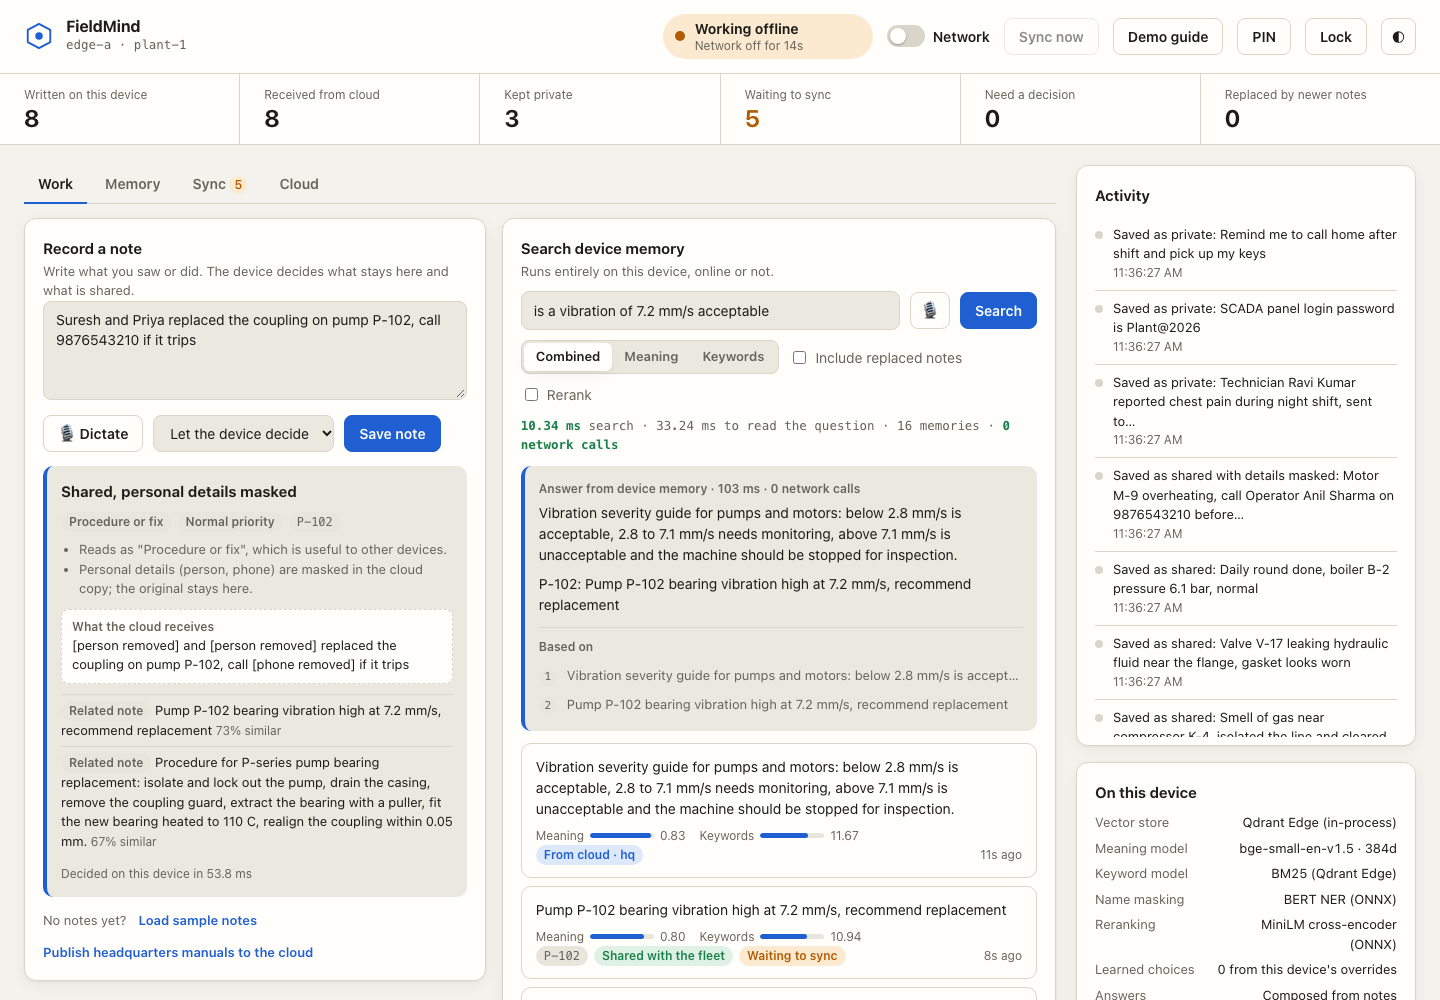
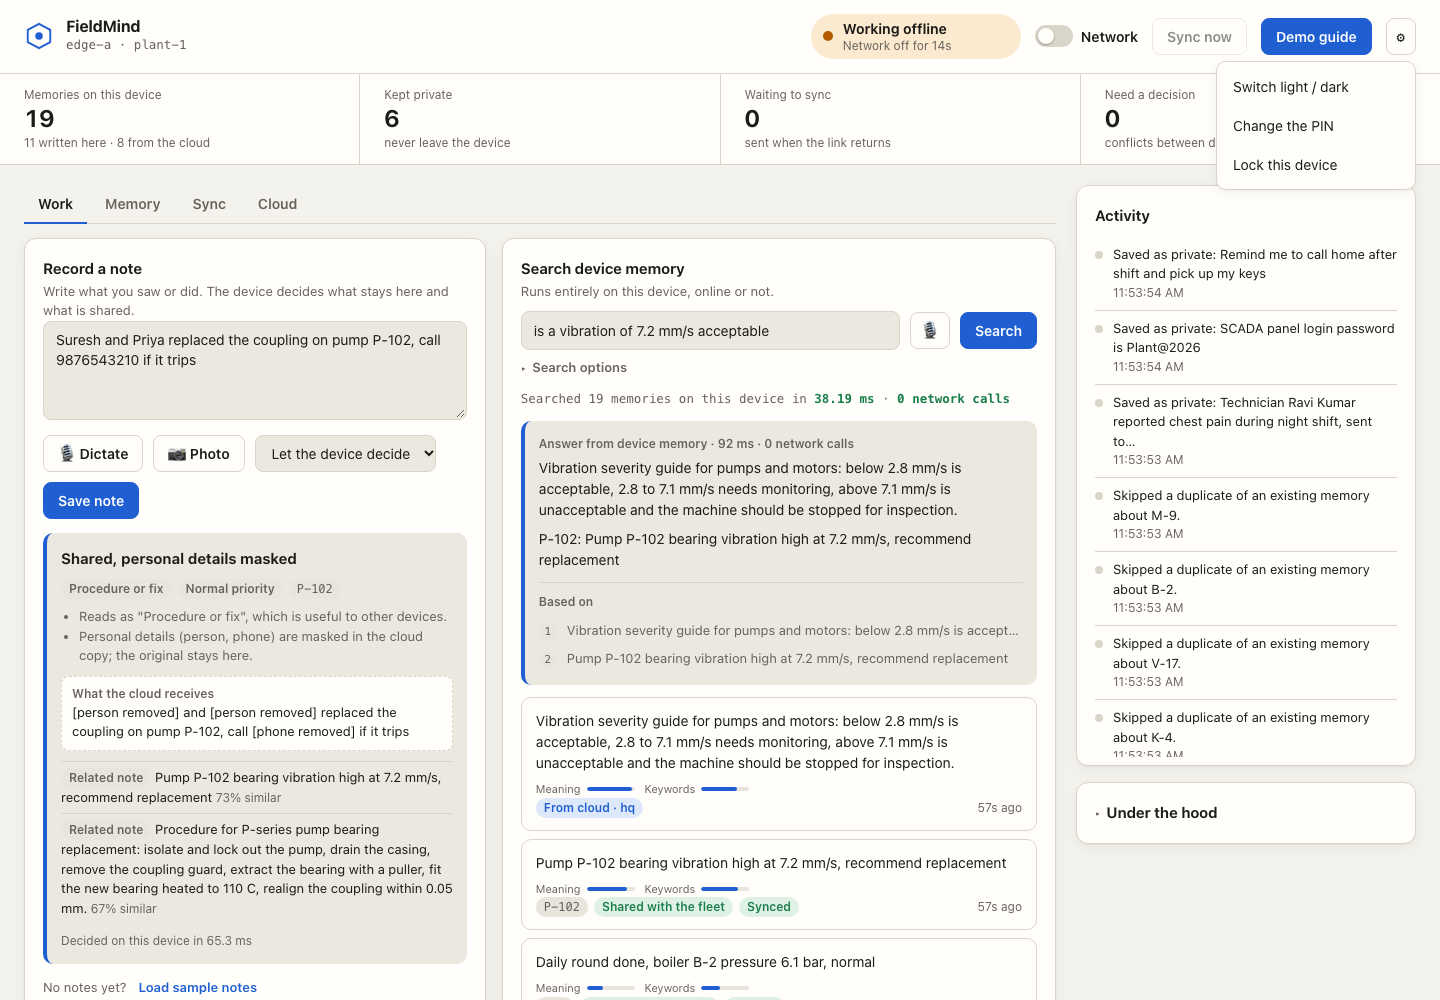
A simpler dashboard; dictation falls back when on-device recognition is unavailable
Four stat tiles with plain-language sublines replace six; theme, PIN and lock
move into a settings menu so Demo guide stands out; search options, sync runs
and the model details fold away; result bars show the signals without raw
numbers; an empty device shows a Start-here card with the three first actions.
Dictation asks for on-device recognition first and, when the browser answers
language-not-supported, retries with its ordinary recogniser instead of giving
up. Screenshots and the walkthrough GIF are regenerated.

diff --git a/fieldmind/web/app.js b/fieldmind/web/app.js
@@ -232,21 +232,21 @@ function renderStatus(s) {
 
   const waiting = outbox.pending || 0;
   const stats = [
-    ["Written on this device", memory.local, ""],
-    ["Received from cloud", memory.replica, ""],
-    ["Kept private", memory.private, ""],
-    ["Waiting to sync", waiting, waiting ? "attention" : ""],
-    ["Need a decision", s.open_conflicts, s.open_conflicts ? "alert" : ""],
-    ["Replaced by newer notes", memory.superseded, ""],
+    ["Memories on this device", memory.local + memory.replica, "", `${memory.local} written here · ${memory.replica} from the cloud`],
+    ["Kept private", memory.private, "", "never leave the device"],
+    ["Waiting to sync", waiting, waiting ? "attention" : "", link.online ? "sending now" : "sent when the link returns"],
+    ["Need a decision", s.open_conflicts, s.open_conflicts ? "alert" : "", "conflicts between devices"],
   ];
-  $("stats").innerHTML = stats.map(([label, value, cls]) => `
-    <div class="stat ${cls}"><div class="stat-label">${label}</div><div class="stat-value">${value}</div></div>`).join("");
+  $("stats").innerHTML = stats.map(([label, value, cls, sub]) => `
+    <div class="stat ${cls}"><div class="stat-label">${label}</div><div class="stat-value">${value}</div><div class="stat-sub">${esc(sub)}</div></div>`).join("");
+  $("start-here").hidden = memory.local + memory.replica > 0;
+  document.querySelector(".samples").hidden = !$("start-here").hidden;
 
   const attention = waiting + s.open_conflicts;
   $("tab-sync-count").textContent = attention ? String(attention) : "";
 
   const disk = s.shards.local.disk_bytes + s.shards.replica.disk_bytes;
-  $("engine").innerHTML = `<h2>On this device</h2>
+  $("engine").innerHTML = `<p class="hint">Everything below runs inside this device's process. Nothing here needs a network.</p>
     <dl class="kv">
       <dt>Vector store</dt><dd>${esc(s.engine.vector_store)}</dd>
       <dt>Meaning model</dt><dd>${esc(s.engine.dense_model.split("/").pop())} · ${s.engine.dimensions}d</dd>
@@ -437,22 +437,13 @@ async function runSearch(withAnswer = true) {
   const t = found.timing_ms;
   const total = found.searched.local + found.searched.replica;
   $("search-meta").innerHTML =
-    `<b>${t.search} ms</b> search · ${t.embed} ms to read the question${found.reranked ? ` · ${t.rerank} ms to rerank` : ""} · ${total} memories · <b>${found.network_calls} network calls</b>`;
+    `Searched ${total} memories on this device in <b>${t.total} ms</b> · <b>${found.network_calls} network calls</b>${found.reranked ? " · question and notes read together" : ""}`;
 
+  const SIGNAL = { semantic: "Meaning", keyword: "Keywords", rerank: "Read together", image: "Photo" };
   $("results").innerHTML = found.results.length ? found.results.map((r) => {
-    const parts = [];
-    if (r.matched.semantic !== undefined) {
-      parts.push(`<span class="signal">Meaning <span class="bar"><span style="width:${Math.round(r.strength.semantic * 100)}%"></span></span> ${r.matched.semantic.toFixed(2)}</span>`);
-    }
-    if (r.matched.keyword !== undefined) {
-      parts.push(`<span class="signal">Keywords <span class="bar"><span style="width:${Math.round(r.strength.keyword * 100)}%"></span></span> ${r.matched.keyword.toFixed(2)}</span>`);
-    }
-    if (r.matched.rerank !== undefined) {
-      parts.push(`<span class="signal">Read together <span class="bar"><span style="width:${Math.round(r.strength.rerank * 100)}%"></span></span> ${r.matched.rerank.toFixed(2)}</span>`);
-    }
-    if (r.matched.image !== undefined) {
-      parts.push(`<span class="signal">Photo <span class="bar"><span style="width:${Math.round(r.strength.image * 100)}%"></span></span> ${r.matched.image.toFixed(2)}</span>`);
-    }
+    const parts = Object.keys(SIGNAL).filter((k) => r.strength[k] !== undefined).map((k) =>
+      `<span class="signal" title="${SIGNAL[k]} match: ${r.matched[k].toFixed(2)}">${SIGNAL[k]}
+        <span class="bar"><span style="width:${Math.round(r.strength[k] * 100)}%"></span></span></span>`);
     return memoryItem(r, `<div class="signals">${parts.join("")}</div>`);
   }).join("") : `<div class="empty-state">Nothing in device memory matches that.</div>`;
 }
@@ -812,6 +803,8 @@ document.addEventListener("click", (event) => {
   if (open) { state.guideOpen = false; return openMemory(open.dataset.open); }
   const guided = event.target.closest("[data-guide]");
   if (guided) return $(guided.dataset.guide).click();
+  const focus = event.target.closest("[data-focus]");
+  if (focus) return $(focus.dataset.focus).focus();
   if (event.target.closest("[data-close]") || event.target === $("drawer")) return closeDrawer();
 
   const combine = event.target.closest("[data-combine]");
@@ -860,14 +853,25 @@ $("seed-cloud").addEventListener("click", async (event) => {
 });
 
 $("guide").addEventListener("click", openGuide);
-$("change-pin").addEventListener("click", openPinChange);
+$("change-pin").addEventListener("click", () => { closeMenu(); openPinChange(); });
+
+function closeMenu() { $("settings-menu").hidden = true; $("settings").setAttribute("aria-expanded", "false"); }
+$("settings").addEventListener("click", (event) => {
+  event.stopPropagation();
+  const open = $("settings-menu").hidden;
+  $("settings-menu").hidden = !open;
+  $("settings").setAttribute("aria-expanded", String(open));
+});
+document.addEventListener("click", (event) => { if (!event.target.closest(".menu-wrap")) closeMenu(); });
 $("lock-form").addEventListener("submit", submitLock);
 $("lock-now").addEventListener("click", async () => {
+  closeMenu();
   await api("/api/auth/logout", { method: "POST" }).catch(() => null);
   showLock();
 });
 
 $("theme").addEventListener("click", () => {
+  closeMenu();
   const root = document.documentElement;
   const dark = root.dataset.theme
     ? root.dataset.theme === "dark"
@@ -893,13 +897,17 @@ function stopDictation() {
   if (listening) { try { listening.recognition.stop(); } catch (error) { /* already stopped */ } }
 }
 
-function startDictation(button) {
+function startDictation(button, onDevice = true) {
   const target = $(button.dataset.dictate);
   const recognition = new Recognition();
   recognition.lang = navigator.language || "en-IN";
   recognition.interimResults = true;
   recognition.continuous = false;
-  try { recognition.processLocally = true; } catch (error) { /* not offered by this browser */ }
+  // Ask for on-device recognition first. Browsers only have it for some
+  // languages, and answer "language-not-supported" otherwise; then the ordinary
+  // recogniser (the browser vendor's service) is used instead.
+  if (onDevice) { try { recognition.processLocally = true; } catch (error) { onDevice = false; } }
+  let retry = false;
   const before = target.value ? `${target.value.trim()} ` : "";
   recognition.onresult = (event) => {
     const heard = Array.from(event.results).map((r) => r[0].transcript).join(" ").trim();
@@ -907,18 +915,21 @@ function startDictation(button) {
     target.dispatchEvent(new Event("input"));
   };
   recognition.onerror = (event) => {
+    if ((event.error === "language-not-supported" || event.error === "service-not-allowed") && onDevice) { retry = true; return; }
     if (event.error === "not-allowed") toast("Microphone access was refused.");
     else if (event.error === "network") toast("This browser's speech service needs internet. Type the note instead.");
+    else if (event.error === "language-not-supported") toast(`This browser cannot recognise ${recognition.lang}. Type the note instead.`);
     else if (event.error !== "aborted" && event.error !== "no-speech") toast(`Dictation stopped: ${event.error}`);
   };
   recognition.onend = () => {
+    if (retry) { startDictation(button, false); return; }
     button.classList.remove("listening");
     button.textContent = button.dataset.idle;
     listening = null;
     if (button.dataset.submit && target.value.trim()) $(button.dataset.submit).requestSubmit();
     else target.focus();
   };
-  button.dataset.idle = button.textContent;
+  if (!button.dataset.idle) button.dataset.idle = button.textContent;
   button.textContent = button.classList.contains("icon") ? "■" : "■ Listening…";
   button.classList.add("listening");
   listening = { recognition, button };

diff --git a/fieldmind/web/index.html b/fieldmind/web/index.html
@@ -37,10 +37,15 @@
       <span class="switch-label">Network</span>
     </label>
     <button class="btn" id="sync-now">Sync now</button>
-    <button class="btn ghost" id="guide" title="A guided tour of what to try">Demo guide</button>
-    <button class="btn ghost" id="change-pin" title="Change the device PIN">PIN</button>
-    <button class="btn ghost" id="lock-now" title="Lock this device">Lock</button>
-    <button class="btn ghost icon" id="theme" title="Switch light and dark" aria-label="Switch light and dark">◐</button>
+    <button class="btn primary" id="guide" title="A guided tour of what to try">Demo guide</button>
+    <div class="menu-wrap">
+      <button class="btn ghost icon" id="settings" title="Device settings" aria-label="Device settings" aria-haspopup="true" aria-expanded="false">⚙</button>
+      <div class="menu" id="settings-menu" hidden>
+        <button class="menu-item" id="theme">Switch light / dark</button>
+        <button class="menu-item" id="change-pin">Change the PIN</button>
+        <button class="menu-item" id="lock-now">Lock this device</button>
+      </div>
+    </div>
   </div>
 </header>
 
@@ -56,6 +61,15 @@
     </nav>
 
     <section class="panel active" id="panel-work">
+      <div class="card start" id="start-here" hidden>
+        <h2>Start here</h2>
+        <p class="hint">This device is empty. Three ways to begin:</p>
+        <div class="start-steps">
+          <button class="start-step" data-guide="seed-cloud"><b>1</b><span>Publish headquarters manuals to the cloud</span><small>The device pulls them in so it can answer questions offline.</small></button>
+          <button class="start-step" data-guide="seed"><b>2</b><span>Load sample field notes</span><small>Watch each one be kept private, shared, or shared with names masked.</small></button>
+          <button class="start-step" data-focus="note"><b>3</b><span>Write or dictate your own note</span><small>The sharing decision appears as you type.</small></button>
+        </div>
+      </div>
       <div class="work">
         <div class="card">
           <h2>Record a note</h2>
@@ -92,15 +106,18 @@
               title="Ask by voice. Uses the browser's speech service." aria-label="Ask by voice">🎙</button>
             <button class="btn primary" type="submit">Search</button>
           </form>
-          <div class="row wrap">
-            <div class="segmented" id="mode">
-              <button type="button" data-mode="hybrid" class="active">Combined</button>
-              <button type="button" data-mode="semantic">Meaning</button>
-              <button type="button" data-mode="keyword">Keywords</button>
+          <details class="options">
+            <summary>Search options</summary>
+            <div class="row wrap">
+              <div class="segmented" id="mode">
+                <button type="button" data-mode="hybrid" class="active">Combined</button>
+                <button type="button" data-mode="semantic">Meaning</button>
+                <button type="button" data-mode="keyword">Keywords</button>
+              </div>
+              <label class="check"><input type="checkbox" id="include-old"> Include replaced notes</label>
+              <label class="check" id="rerank-label" title="A small cross-encoder reads the question with each candidate"><input type="checkbox" id="rerank"> Read question and notes together (slower, more precise)</label>
             </div>
-            <label class="check"><input type="checkbox" id="include-old"> Include replaced notes</label>
-            <label class="check" id="rerank-label" title="A small cross-encoder reads the question with each candidate"><input type="checkbox" id="rerank"> Rerank</label>
-          </div>
+          </details>
           <div id="search-meta" class="meta-line"></div>
           <div id="answer"></div>
           <div id="results" class="list"></div>
@@ -139,10 +156,10 @@
         <p class="hint">Two devices changed the same note in different ways. Nothing was overwritten.</p>
         <div id="conflicts" class="list"></div>
       </div>
-      <div class="card">
-        <h2>Recent sync runs</h2>
+      <details class="card under">
+        <summary><h2>Recent sync runs</h2></summary>
         <div id="runs"></div>
-      </div>
+      </details>
     </section>
 
     <section class="panel" id="panel-cloud">
@@ -164,7 +181,10 @@
       <h2>Activity</h2>
       <div id="events" class="events"></div>
     </div>
-    <div class="card engine" id="engine"></div>
+    <details class="card under" id="engine-card">
+      <summary><h2>Under the hood</h2></summary>
+      <div id="engine"></div>
+    </details>
   </aside>
 </main>
 

diff --git a/fieldmind/web/styles.css b/fieldmind/web/styles.css
@@ -422,3 +422,30 @@ td.num, th.num { text-align: right; }
 .thumbs { display: flex; gap: 8px; margin: 8px 0; flex-wrap: wrap; }
 .thumbs img { height: 72px; width: auto; border-radius: 8px; object-fit: cover; border: 1px solid var(--line); }
 .thumbs.large img { height: auto; max-height: 320px; max-width: 100%; }
+
+
+/* Simpler surface: four tiles, a settings menu, collapsed details */
+.stats { grid-template-columns: repeat(4, 1fr); }
+.stat-sub { color: var(--muted); font-size: 12px; white-space: nowrap; overflow: hidden; text-overflow: ellipsis; margin-top: 2px; }
+.menu-wrap { position: relative; }
+.menu { position: absolute; right: 0; top: calc(100% + 6px); min-width: 200px; background: var(--surface); border: 1px solid var(--line); border-radius: 10px; box-shadow: var(--shadow); padding: 6px; z-index: 30; display: grid; gap: 2px; }
+.menu-item { border: 0; background: none; text-align: left; padding: 8px 10px; border-radius: 7px; cursor: pointer; color: var(--text); font: inherit; }
+.menu-item:hover { background: var(--sunken); }
+details.options { margin-top: 8px; }
+details.options > summary, details.under > summary { cursor: pointer; color: var(--muted); font-size: 13px; font-weight: 600; list-style: none; display: flex; align-items: center; gap: 6px; }
+details.options > summary::before, details.under > summary::before { content: "▸"; font-size: 11px; transition: transform .15s; }
+details[open].options > summary::before, details[open].under > summary::before { transform: rotate(90deg); }
+details.options > summary::-webkit-details-marker, details.under > summary::-webkit-details-marker { display: none; }
+details.options > .row { margin-top: 8px; }
+details.under > summary h2 { display: inline; font-size: 15px; color: var(--text); }
+details.under > #engine, details.under > #runs { margin-top: 10px; }
+.signals { font-size: 11px; gap: 10px; }
+.bar { width: 48px; height: 4px; }
+.card.start { border-color: var(--accent); margin-bottom: 16px; }
+.start-steps { display: grid; grid-template-columns: repeat(3, 1fr); gap: 12px; margin-top: 12px; }
+.start-step { display: grid; grid-template-columns: 28px 1fr; grid-template-rows: auto auto; gap: 2px 10px; align-items: start; text-align: left; padding: 12px; border: 1px solid var(--line); border-radius: 10px; background: var(--surface); cursor: pointer; color: var(--text); font: inherit; }
+.start-step:hover { border-color: var(--accent); }
+.start-step b { grid-row: 1 / 3; width: 28px; height: 28px; border-radius: 50%; background: var(--accent); color: var(--accent-text); display: grid; place-items: center; font-size: 13px; }
+.start-step span { font-weight: 600; }
+.start-step small { color: var(--muted); font-size: 12px; line-height: 1.35; }
+@media (max-width: 900px) { .stats { grid-template-columns: repeat(2, 1fr); } .start-steps { grid-template-columns: 1fr; } }
